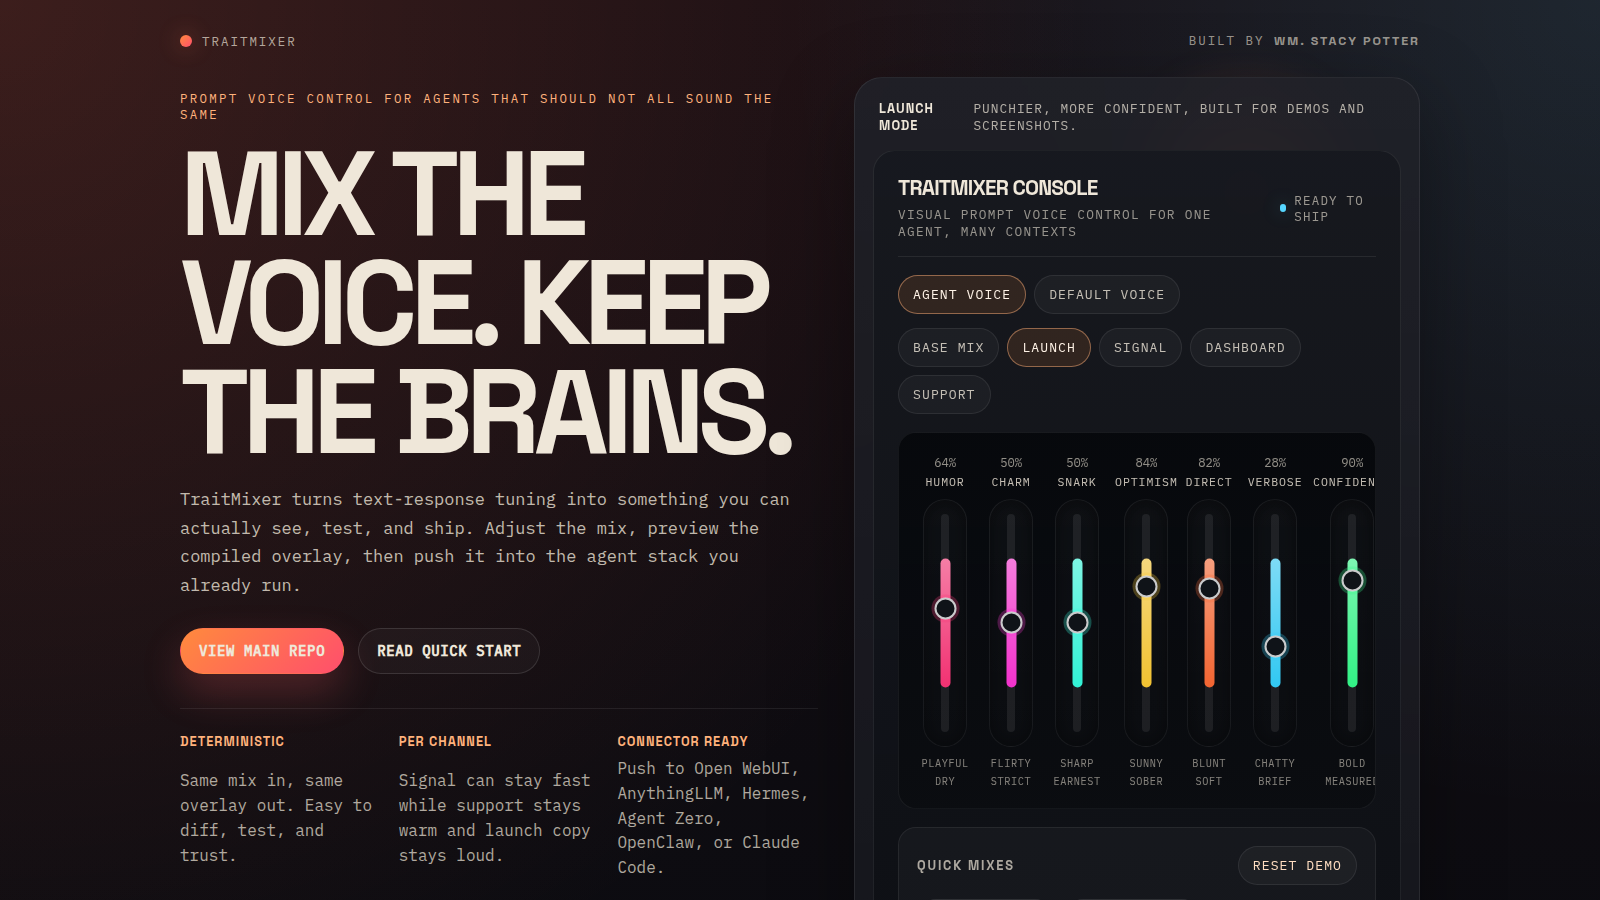
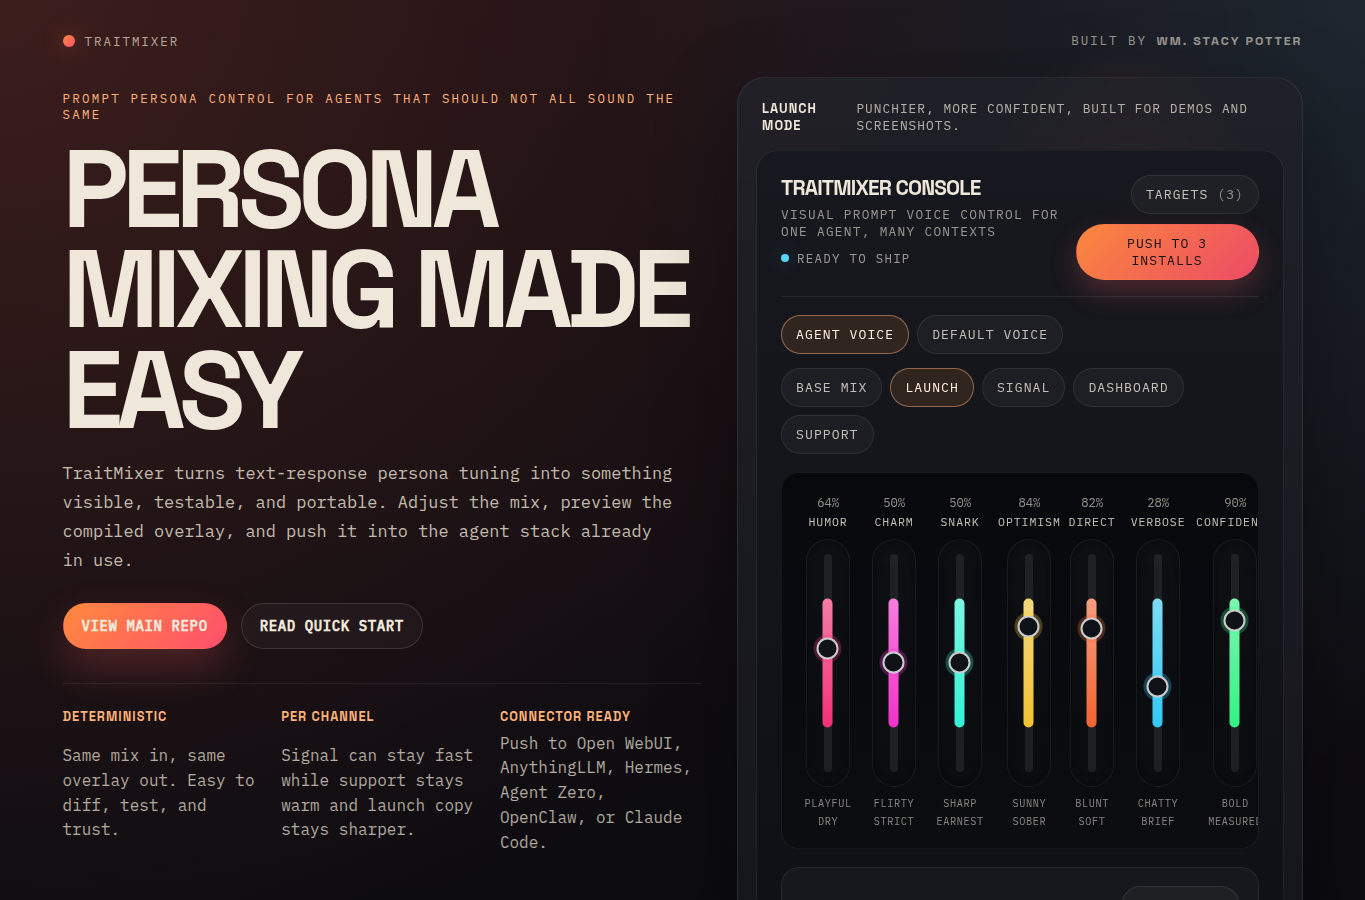
refactor: tighten public-facing copy and screenshots

diff --git a/packages/ui/src/main.ts b/packages/ui/src/main.ts
@@ -112,8 +112,8 @@ const RESPONSE_EXAMPLES: Record<string, ResponseExample> = {
     before:
       "TraitMixer is a helpful tool for adjusting AI assistant personalities and improving how they communicate across different scenarios.",
     after:
-      "TraitMixer gives you an actual control surface for agent personality, so you're not stuck doing blind prompt surgery every time the bot sounds weird in public.",
-    traits: ["confident", "memorable", "shareable"],
+      "TraitMixer gives builders a direct way to shape agent persona, so response style can be tuned visually instead of disappearing into prompt edits.",
+    traits: ["confident", "clear", "product-led"],
   },
   signal: {
     context: "Signal example",
@@ -1042,12 +1042,12 @@ function renderApp() {
 
         <section class="hero">
           <div class="hero-copy">
-            <div class="eyebrow">Prompt voice control for agents that should not all sound the same</div>
-            <h1>Mix the voice. Keep the brains.</h1>
+            <div class="eyebrow">Prompt persona control for agents that should not all sound the same</div>
+            <h1>Persona Mixing Made Easy</h1>
             <p class="hero-lead">
-              TraitMixer turns text-response tuning into something you can actually see, test,
-              and ship. Adjust the mix, preview the compiled overlay, then push it into the
-              agent stack you already run.
+              TraitMixer turns text-response persona tuning into something visible, testable,
+              and portable. Adjust the mix, preview the compiled overlay, and push it into the
+              agent stack already in use.
             </p>
             <div class="hero-actions">
               <a class="button button-primary" href=${REPO_URL} target="_blank" rel="noreferrer">View Main Repo</a>
@@ -1060,7 +1060,7 @@ function renderApp() {
               </div>
               <div class="hero-note">
                 <strong>Per Channel</strong>
-                <span>Signal can stay fast while support stays warm and launch copy stays loud.</span>
+                <span>Signal can stay fast while support stays warm and launch copy stays sharper.</span>
               </div>
               <div class="hero-note">
                 <strong>Connector Ready</strong>
@@ -1121,11 +1121,11 @@ function renderApp() {
 
         <section class="section">
           <div class="section-head">
-            <h2>Why people will star this</h2>
+            <h2>Why it works</h2>
             <p>
-              The strong version of this project is not “yet another prompt tool.” It is a
-              very legible control surface for a real pain point: agents that are smart enough
-              to be useful, but whose written replies still sound generic, brittle, or wrong for the room.
+              TraitMixer is not just another prompt editor. It is a clear control surface for a
+              familiar problem: capable agents whose written replies still feel generic, brittle,
+              or off-tone for the context.
             </p>
           </div>
 
@@ -1134,43 +1134,42 @@ function renderApp() {
               <p class="proof-kicker">Product angle</p>
               <h3>It gives personality work a visible, testable interface.</h3>
               <p>
-                That is the hook. Sliders are memorable, screenshots well, and tell the story
-                instantly. The repo becomes easier to share because someone can see what it does
-                before they read a line of code.
+                Sliders make persona changes legible. The interface explains the concept quickly,
+                and the compiled output makes it clear that the mixer is connected to something real.
               </p>
               <div class="proof-rows">
                 <div class="proof-row">
                   <strong>Immediate demo</strong>
-                  <span>One screenshot communicates the concept better than a paragraph of prompt engineering lore.</span>
+                  <span>One screenshot communicates the concept faster than a paragraph about prompt tuning.</span>
                 </div>
                 <div class="proof-row">
                   <strong>Useful output</strong>
                   <span>The overlay is plain text, deterministic, and practical enough to drop into real agent stacks.</span>
                 </div>
                 <div class="proof-row">
-                  <strong>Open-source bait</strong>
-                  <span>People fork tools they can understand quickly and bend to their own weird setups.</span>
+                  <strong>Portable model</strong>
+                  <span>The same core mix can travel across different installs without rewriting the whole prompt layer.</span>
                 </div>
               </div>
             </div>
 
             <div class="proof-panel">
-              <p class="proof-kicker">Launch heuristics</p>
+              <p class="proof-kicker">Core qualities</p>
               <div class="stat-grid">
                 <div class="stat">
-                  <div class="stat-value">8 sec</div>
+                  <div class="stat-value">Visible</div>
                   <div class="stat-label">Understandable</div>
-                  <div class="stat-copy">Someone should grasp the product before they hit the fold.</div>
+                  <div class="stat-copy">The product concept should read clearly from the first screen.</div>
                 </div>
                 <div class="stat">
-                  <div class="stat-value">2 min</div>
+                  <div class="stat-value">Portable</div>
                   <div class="stat-label">Runnable</div>
-                  <div class="stat-copy">The README should get them to a live screen without archaeology.</div>
+                  <div class="stat-copy">The compiled overlay should move cleanly across multiple agent installs.</div>
                 </div>
                 <div class="stat">
-                  <div class="stat-value">1 link</div>
-                  <div class="stat-label">Credit path</div>
-                  <div class="stat-copy">Your name should stay attached anywhere TraitMixer gets passed around.</div>
+                  <div class="stat-value">Deterministic</div>
+                  <div class="stat-label">Trustworthy</div>
+                  <div class="stat-copy">The same persona settings should always compile to the same output.</div>
                 </div>
               </div>
             </div>
@@ -1288,8 +1287,7 @@ function renderApp() {
 
         <footer class="footer">
           <span>
-            TraitMixer is an open-source repo by <strong>Wm. Stacy Potter</strong>.
-            If it helps your stack, link back to the main repo.
+            TraitMixer is an open-source project by <strong>Wm. Stacy Potter</strong>.
           </span>
           <a class="proof-link" href=${REPO_URL} target="_blank" rel="noreferrer">${REPO_URL}</a>
         </footer>

diff --git a/packages/ui/index.html b/packages/ui/index.html
@@ -3,7 +3,7 @@
 <head>
   <meta charset="UTF-8" />
   <meta name="viewport" content="width=device-width, initial-scale=1.0" />
-  <title>TraitMixer — Mix the voice. Keep the brains.</title>
+  <title>TraitMixer — Persona Mixing Made Easy</title>
   <meta
     name="description"
     content="TraitMixer is a personality mixer for AI agents: tune tone, directness, humor, empathy, and channel-specific delivery, then push the compiled overlay into your stack."

diff --git a/README.md b/README.md
@@ -1,10 +1,10 @@
 # TraitMixer
 
-**Mix the voice. Keep the brains.**
+**Persona Mixing Made Easy**
 
-TraitMixer is an open-source personality mixer for AI agents. It gives you a visual control surface for text-response traits like tone, directness, humor, empathy, formality, safety, and per-channel delivery, then compiles those choices into a deterministic prompt overlay you can actually ship.
+TraitMixer is an open-source personality mixer for AI agents. It provides a visual control surface for text-response traits like tone, directness, humor, empathy, formality, safety, and per-channel delivery, then compiles those choices into a deterministic prompt overlay.
 
-If your agents are capable but their text replies still sound generic, brittle, too polite, too stiff, too chatty, or wrong for the room, this is the repo.
+TraitMixer is built for agent workflows where the underlying system is capable, but the written responses still feel generic, brittle, too stiff, too chatty, or wrong for the context.
 
 ![TraitMixer UI](docs/screenshot.png)
 
@@ -18,18 +18,18 @@ Most prompt tuning is still a pile of invisible text edits and wishful thinking.
 
 TraitMixer makes personality work legible:
 
-- You can see the voice you are shaping.
-- You can vary behavior by channel without rewriting the whole system prompt.
-- You can preview the compiled output before you push it into a real stack.
-- You can keep the runtime layer deterministic instead of hand-tuning magic strings forever.
+- The active persona can be seen instead of inferred from prompt text alone.
+- Behavior can vary by channel without rewriting the whole system prompt.
+- The compiled output can be previewed before it is pushed into a real stack.
+- The runtime layer stays deterministic instead of drifting through hand-tuned prompt edits.
 
-The goal is simple: make agent voice control feel more like mixing audio and less like arguing with a haunted Markdown file.
+The goal is simple: make agent persona control feel more like mixing a board and less like editing invisible prompt fragments.
 
 ## What makes it interesting
 
 - **Deterministic compiler**: same inputs produce the same overlay.
 - **Channel overrides**: different delivery for `signal`, `dashboard`, support flows, launch copy, or whatever else you need.
-- **Visual mixer UI**: sliders are faster to understand, easier to demo, and frankly more fun than raw prompt surgery.
+- **Visual mixer UI**: sliders make persona changes faster to understand and easier to compare.
 - **Connector layer**: push compiled overlays into the platforms people already use.
 - **Git-friendly config**: personality inputs live in plain files instead of being trapped in UI state.
 
@@ -47,7 +47,7 @@ Before:
 
 After TraitMixer:
 
-> TraitMixer gives you an actual control surface for agent personality, so you're not stuck doing blind prompt surgery every time the bot sounds weird in public.
+> TraitMixer gives builders a direct way to shape agent persona, so response style can be tuned visually instead of buried inside prompt edits.
 
 That is the whole pitch in miniature: same job, better written delivery.
 
@@ -106,16 +106,7 @@ That separation matters. The compiler should be usable without the screen, and t
 
 ## The pitch in one sentence
 
-TraitMixer is for people who already have an AI agent working and are tired of it sounding like the same vacuum-sealed assistant every other stack ships.
-
-## What would make this repo worth starring
-
-- It solves a real, easy-to-recognize problem.
-- The concept is screenshot-friendly and demo-friendly.
-- It is weird enough to be memorable without being useless.
-- It can turn into a plugin, hosted product, or consulting wedge later.
-
-That last part matters. Stars are nice. A repo people can imagine using in production is better.
+TraitMixer helps agent builders tune written persona visually, preview the result, and push it into the tools they already run.
 
 ## Configuration
 
@@ -125,7 +116,7 @@ TraitMixer reads personality config from plain data structures and compiles a pr
 - per-agent trait overrides
 - per-channel delivery overrides
 
-For Claude Code specifically, point `TRAITMIXER_CLAUDECODE_PATH` at the project memory file you want TraitMixer to manage, for example:
+For Claude Code specifically, point `TRAITMIXER_CLAUDECODE_PATH` at the project memory file TraitMixer should manage, for example:
 
 - `~/my-project/CLAUDE.md`
 - `~/my-project/.claude/CLAUDE.md`
@@ -134,11 +125,7 @@ See [ARCHITECTURE.md](docs/personality-lab/ARCHITECTURE.md) for the current ment
 
 ## Contributing
 
-If you want to add a connector, improve the compiler, or push the UI further, start with [CONTRIBUTING.md](CONTRIBUTING.md).
-
-If you use TraitMixer publicly, please link back to the main repo:
-
-`https://github.com/wspotter/traitmixer`
+Contributions are welcome. For setup and guidelines, see [CONTRIBUTING.md](CONTRIBUTING.md).
 
 ## License
 

diff --git a/docs/marketing/video/AI_VIDEO_PROMPT.md b/docs/marketing/video/AI_VIDEO_PROMPT.md
@@ -13,7 +13,7 @@ If the tool allows multiple image references, upload all three.
 ## Non-Negotiable Product Facts
 
 - Product name: `TraitMixer`
-- Tagline: `Mix the voice. Keep the brains.`
+- Tagline: `Persona Mixing Made Easy`
 - It is a web UI for tuning **written AI response style**
 - `voice` means text-response style, not text-to-speech
 - The UI is a slider-based personality mixer for agents
@@ -67,7 +67,7 @@ Use the uploaded screenshots as the primary visual reference and keep the interf
 Visual tone: premium, dark, editorial, precise, modern, confident. Black and deep charcoal surfaces with warm orange and cool cyan glow accents. Sharp typography. No cheesy SaaS stock look.
 
 Video structure:
-1. Open on the hero screen with a slow push-in on the headline: "Mix the voice. Keep the brains."
+1. Open on the hero screen with a slow push-in on the headline: "Persona Mixing Made Easy"
 2. Cut to elegant macro motion over the slider board, showing the personality mixer as the main idea.
 3. Reveal the "Same prompt. Different reply." section and emphasize the before/after written response change.
 4. Show a brief pass over the compatible installs section: Open WebUI, AnythingLLM, Hermes Agent, Agent Zero, OpenClaw, Claude Code.
@@ -100,7 +100,7 @@ Story arc:
 - Show the "Same prompt. Different reply." section to prove the concept
 - Show the compiled overlay section briefly to imply real implementation depth
 - Show the compatible installs: Open WebUI, AnythingLLM, Hermes Agent, Agent Zero, OpenClaw, Claude Code
-- End with the headline "Mix the voice. Keep the brains." and credit the creator: "Built by Wm. Stacy Potter" with the repo URL github.com/wspotter/traitmixer
+- End with the headline "Persona Mixing Made Easy" and credit the creator: "Built by Wm. Stacy Potter" with the repo URL github.com/wspotter/traitmixer
 
 Use close crops, elegant zooms, layered depth, soft interface reflections, and cinematic pacing. Keep everything believable and software-native. No fake testimonials, no fake users, no exaggerated futuristic holograms.
 ```
@@ -122,7 +122,7 @@ Same prompt.
 Different reply.
 
 TraitMixer.
-Mix the voice. Keep the brains.
+Persona Mixing Made Easy.
 Built by Wm. Stacy Potter.
 ```
 
@@ -131,7 +131,7 @@ Built by Wm. Stacy Potter.
 Use these exact text overlays if the generator supports caption guidance:
 
 1. `TRAITMIXER`
-2. `MIX THE VOICE. KEEP THE BRAINS.`
+2. `PERSONA MIXING MADE EASY`
 3. `TUNE WRITTEN AGENT PERSONALITY`
 4. `SAME PROMPT. DIFFERENT REPLY.`
 5. `OPEN WEBUI · ANYTHINGLLM · HERMES · AGENT ZERO · OPENCLAW · CLAUDE CODE`
